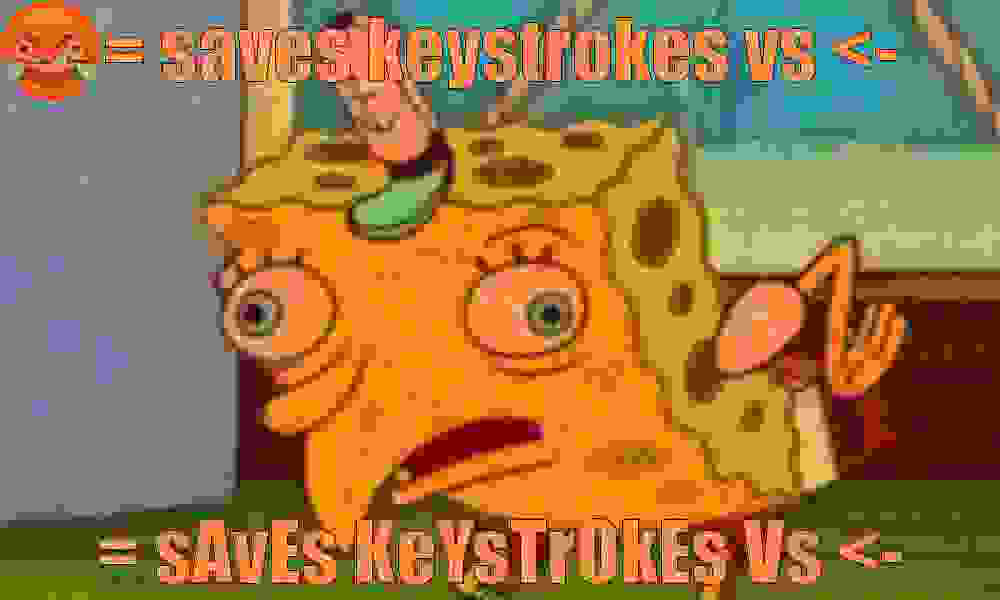
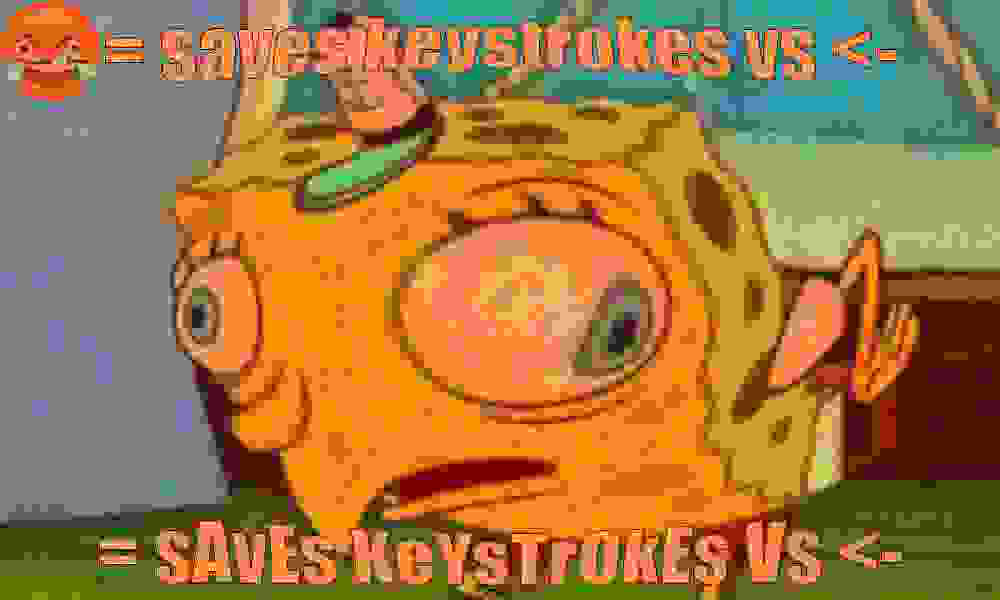
Include deepfry bulge

diff --git a/content/post/2021-11-07-deepfry.html b/content/post/2021-11-07-deepfry.html
@@ -19,7 +19,7 @@ draft: no
 
 
 <div class="figure">
-<p><img src="/post/2021-11-07-deepfry_files/spongebob-frypants.gif" alt="An animation showing a transition from a meme image to a deep-fried version, which has been compressed, has an orange tint and includes a cry-laugh emoji. The meme is of sarcastic Spongebob, with the same text on the top and bottom, but the lower text has alternating case. It says 'equals-sign saves keystrokes versus assignment-arrow'." width="100%"/></p>
+<p><img src="/post/2021-11-07-deepfry_files/spongebob-frypants.gif" alt="An animation showing a transition from a meme image to a deep-fried version, which has been compressed, has an orange tint, bulges from the centre and includes a cry-laugh emoji. The meme is of sarcastic Spongebob, with the same text on the top and bottom, but the lower text has alternating case. It says 'equals-sign saves keystrokes versus assignment-arrow'." width="100%"/></p>
 </div>
 <div id="tldr" class="section level1">
 <h1>tl;dr</h1>
@@ -47,7 +47,7 @@ remotes::install_version(&quot;Rttf2pt1&quot;, version = &quot;1.3.8&quot;)</cod
 <li>Reads a meme template image (or any image) from a path</li>
 <li>Adds top/bottom text in Impact font</li>
 <li>Reads from a URL a specific (cursed) cry/laugh emoji that’s popular in deep-frying and places it in a random location (corners or left/right sides)</li>
-<li>Adjusts the image contrast, saturation, etc,<a href="#fn1" class="footnote-ref" id="fnref1"><sup>1</sup></a> and tints it orange</li>
+<li>Adjusts the image contrast, saturation, etc,<a href="#fn1" class="footnote-ref" id="fnref1"><sup>1</sup></a>, tints it orange and bulges it from the centre</li>
 <li>Writes the image to a temporary jpeg file—compressing it horribly—and then reads it back in</li>
 <li>Outputs a <code>magick-image</code> object that you can save with <code>magick::image_write()</code> and send to all your friend (sic)</li>
 </ol>
@@ -90,8 +90,10 @@ fry &lt;- function(
   cat(&quot;dunking meme... &quot;)
   
   if (depth == &quot;shallow&quot;) {
+    img &lt;- img %&gt;% image_implode(-0.5)  # bulge
     compress &lt;- 8
   } else if (depth == &quot;deep&quot;) {
+    img &lt;- img %&gt;% image_implode(-1)  # more bulge
     compress &lt;- 1  # maximum compression
   } 
   
@@ -134,48 +136,49 @@ Session info
 </summary>
 <pre><code>## ─ Session info ───────────────────────────────────────────────────────────────
 ##  setting  value                       
-##  version  R version 4.1.0 (2021-05-18)
-##  os       macOS Big Sur 10.16         
+##  version  R version 4.1.1 (2021-08-10)
+##  os       macOS Mojave 10.14.6        
 ##  system   x86_64, darwin17.0          
 ##  ui       X11                         
 ##  language (EN)                        
 ##  collate  en_GB.UTF-8                 
 ##  ctype    en_GB.UTF-8                 
 ##  tz       Europe/London               
-##  date     2021-11-09                  
+##  date     2021-12-01                  
 ## 
 ## ─ Packages ───────────────────────────────────────────────────────────────────
-##  package     * version date       lib source        
-##  blogdown      1.4     2021-07-23 [1] CRAN (R 4.1.0)
-##  bookdown      0.23    2021-08-13 [1] CRAN (R 4.1.0)
-##  bslib         0.3.1   2021-10-06 [1] CRAN (R 4.1.0)
-##  cli           3.1.0   2021-10-27 [1] CRAN (R 4.1.0)
-##  curl          4.3.2   2021-06-23 [1] CRAN (R 4.1.0)
-##  digest        0.6.28  2021-09-23 [1] CRAN (R 4.1.0)
-##  evaluate      0.14    2019-05-28 [1] CRAN (R 4.1.0)
-##  fastmap       1.1.0   2021-01-25 [1] CRAN (R 4.1.0)
-##  highr         0.9     2021-04-16 [1] CRAN (R 4.1.0)
-##  htmltools     0.5.2   2021-08-25 [1] CRAN (R 4.1.0)
-##  jquerylib     0.1.4   2021-04-26 [1] CRAN (R 4.1.0)
-##  jsonlite      1.7.2   2020-12-09 [1] CRAN (R 4.1.0)
-##  knitr         1.36    2021-09-29 [1] CRAN (R 4.1.0)
-##  magick      * 2.7.3   2021-08-18 [1] CRAN (R 4.1.0)
-##  magrittr      2.0.1   2020-11-17 [1] CRAN (R 4.1.0)
-##  png           0.1-7   2013-12-03 [1] CRAN (R 4.1.0)
-##  R6            2.5.1   2021-08-19 [1] CRAN (R 4.1.0)
-##  Rcpp          1.0.7   2021-07-07 [1] CRAN (R 4.1.0)
-##  rlang         0.4.12  2021-10-18 [1] CRAN (R 4.1.0)
-##  rmarkdown     2.10    2021-08-06 [1] CRAN (R 4.1.0)
-##  rstudioapi    0.13    2020-11-12 [1] CRAN (R 4.1.0)
-##  sass          0.4.0   2021-05-12 [1] CRAN (R 4.1.0)
-##  sessioninfo   1.1.1   2018-11-05 [1] CRAN (R 4.1.0)
-##  stringi       1.7.5   2021-10-04 [1] CRAN (R 4.1.0)
-##  stringr       1.4.0   2019-02-10 [1] CRAN (R 4.1.0)
-##  withr         2.4.2   2021-04-18 [1] CRAN (R 4.1.0)
-##  xfun          0.26    2021-09-14 [1] CRAN (R 4.1.0)
-##  yaml          2.2.1   2020-02-01 [1] CRAN (R 4.1.0)
+##  package     * version date       lib source           
+##  blogdown      1.5     2021-09-02 [1] CRAN (R 4.1.0)   
+##  bookdown      0.24    2021-09-02 [1] CRAN (R 4.1.0)   
+##  bslib         0.3.1   2021-10-06 [1] CRAN (R 4.1.0)   
+##  cli           3.1.0   2021-10-27 [1] CRAN (R 4.1.0)   
+##  curl          4.3.2   2021-06-23 [1] CRAN (R 4.1.0)   
+##  digest        0.6.28  2021-09-23 [1] CRAN (R 4.1.0)   
+##  evaluate      0.14    2019-05-28 [1] CRAN (R 4.1.0)   
+##  fastmap       1.1.0   2021-01-25 [1] CRAN (R 4.1.0)   
+##  highr         0.9     2021-04-16 [1] CRAN (R 4.1.0)   
+##  htmltools     0.5.2   2021-08-25 [1] CRAN (R 4.1.0)   
+##  jquerylib     0.1.4   2021-04-26 [1] CRAN (R 4.1.0)   
+##  jsonlite      1.7.2   2020-12-09 [1] CRAN (R 4.1.0)   
+##  knitr         1.36    2021-09-29 [1] CRAN (R 4.1.0)   
+##  magick      * 2.7.3   2021-08-18 [1] CRAN (R 4.1.0)   
+##  magrittr      2.0.1   2020-11-17 [1] CRAN (R 4.1.0)   
+##  png           0.1-7   2013-12-03 [1] standard (@0.1-7)
+##  R6            2.5.1   2021-08-19 [1] CRAN (R 4.1.0)   
+##  Rcpp          1.0.7   2021-07-07 [1] CRAN (R 4.1.0)   
+##  rlang         0.4.12  2021-10-18 [1] CRAN (R 4.1.0)   
+##  rmarkdown     2.11    2021-09-14 [1] CRAN (R 4.1.0)   
+##  rstudioapi    0.13    2020-11-12 [1] CRAN (R 4.1.0)   
+##  sass          0.4.0   2021-05-12 [1] CRAN (R 4.1.0)   
+##  sessioninfo   1.1.1   2018-11-05 [1] CRAN (R 4.1.0)   
+##  stringi       1.7.5   2021-10-04 [1] CRAN (R 4.1.0)   
+##  stringr       1.4.0   2019-02-10 [1] CRAN (R 4.1.0)   
+##  withr         2.4.3   2021-11-30 [1] CRAN (R 4.1.1)   
+##  xfun          0.26    2021-09-14 [1] CRAN (R 4.1.0)   
+##  yaml          2.2.1   2020-02-01 [1] CRAN (R 4.1.0)   
 ## 
-## [1] /Library/Frameworks/R.framework/Versions/4.1/Resources/library</code></pre>
+## [1] /Users/matt.dray/Library/R/x86_64/4.1/library
+## [2] /Library/Frameworks/R.framework/Versions/4.1/Resources/library</code></pre>
 </details>
 </div>
 <div class="footnotes">
